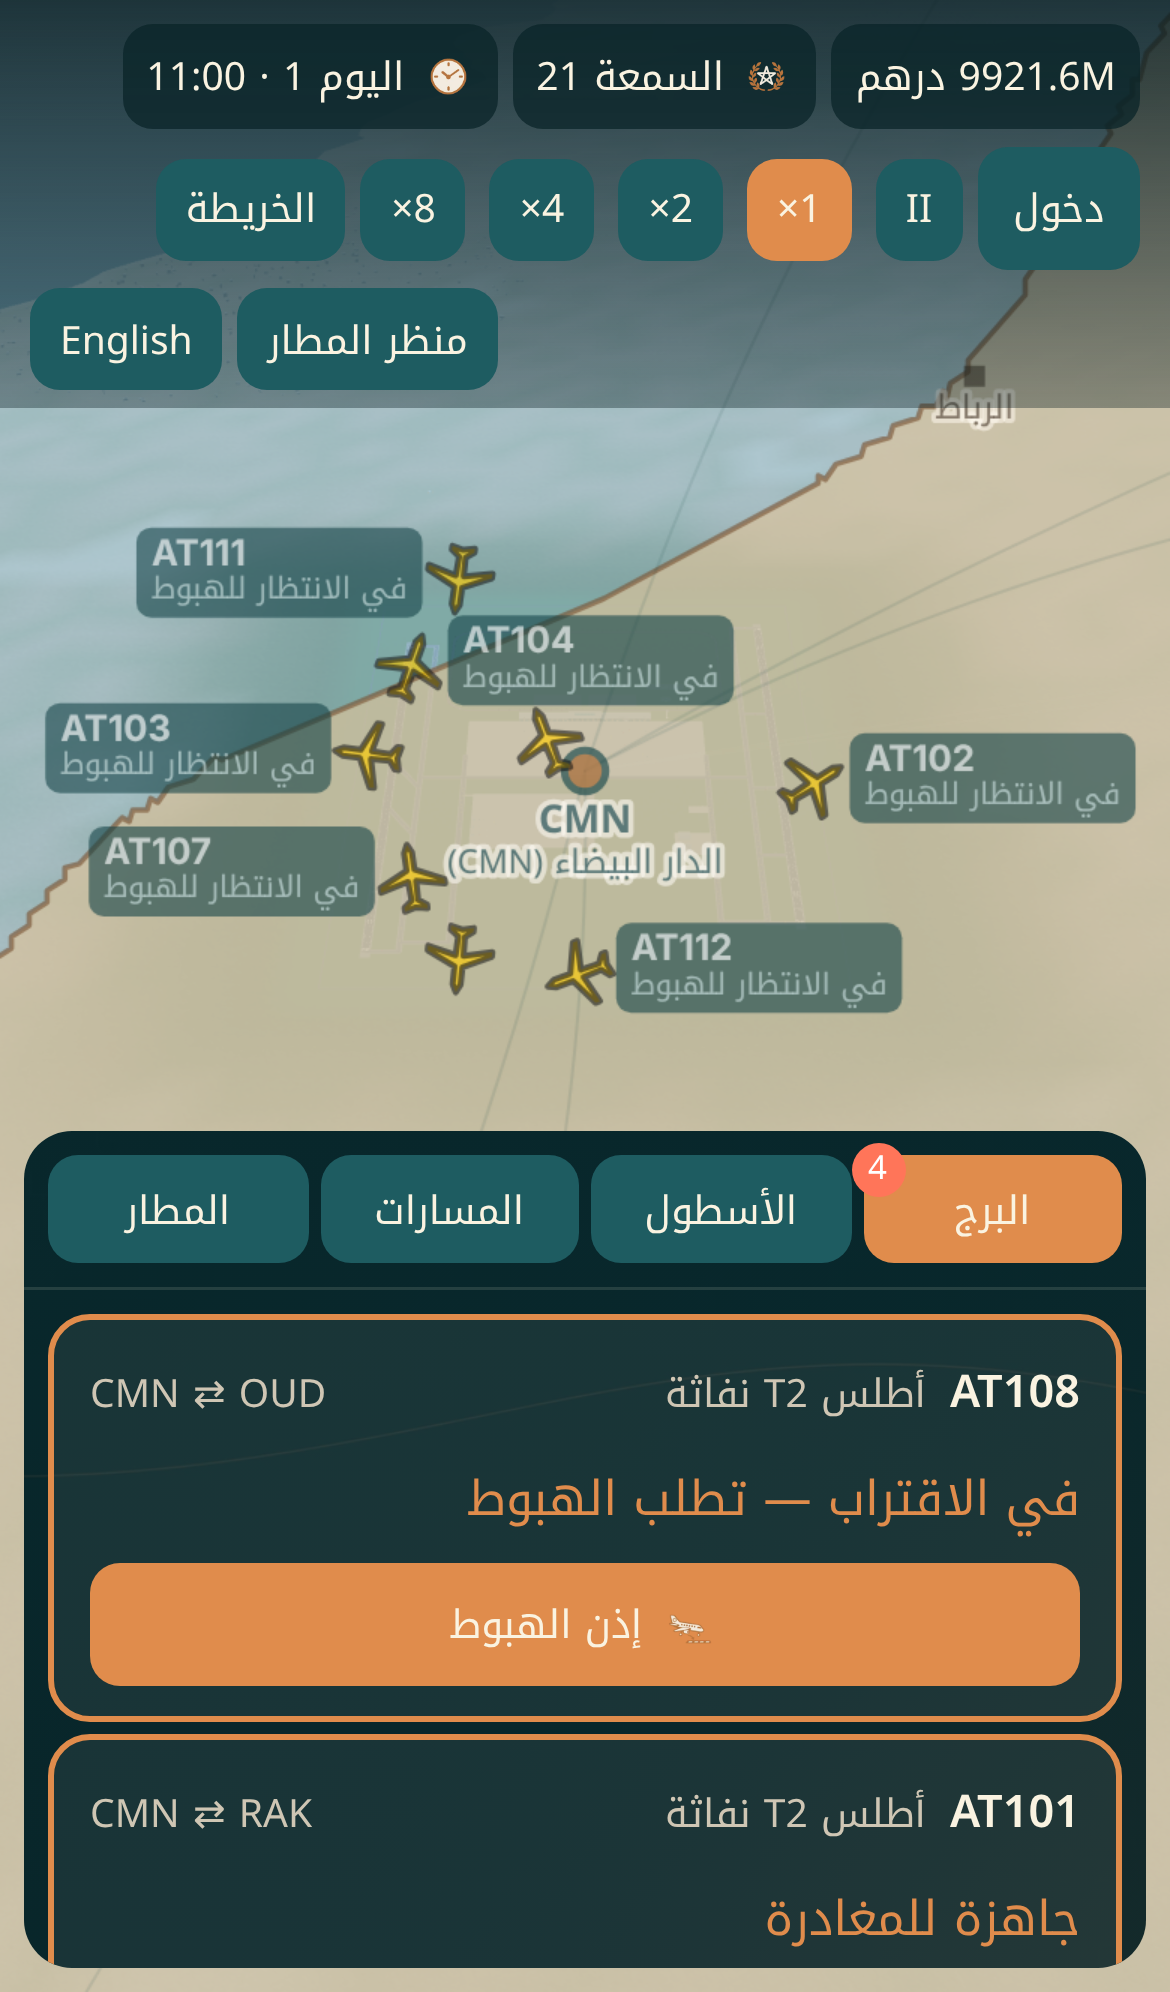
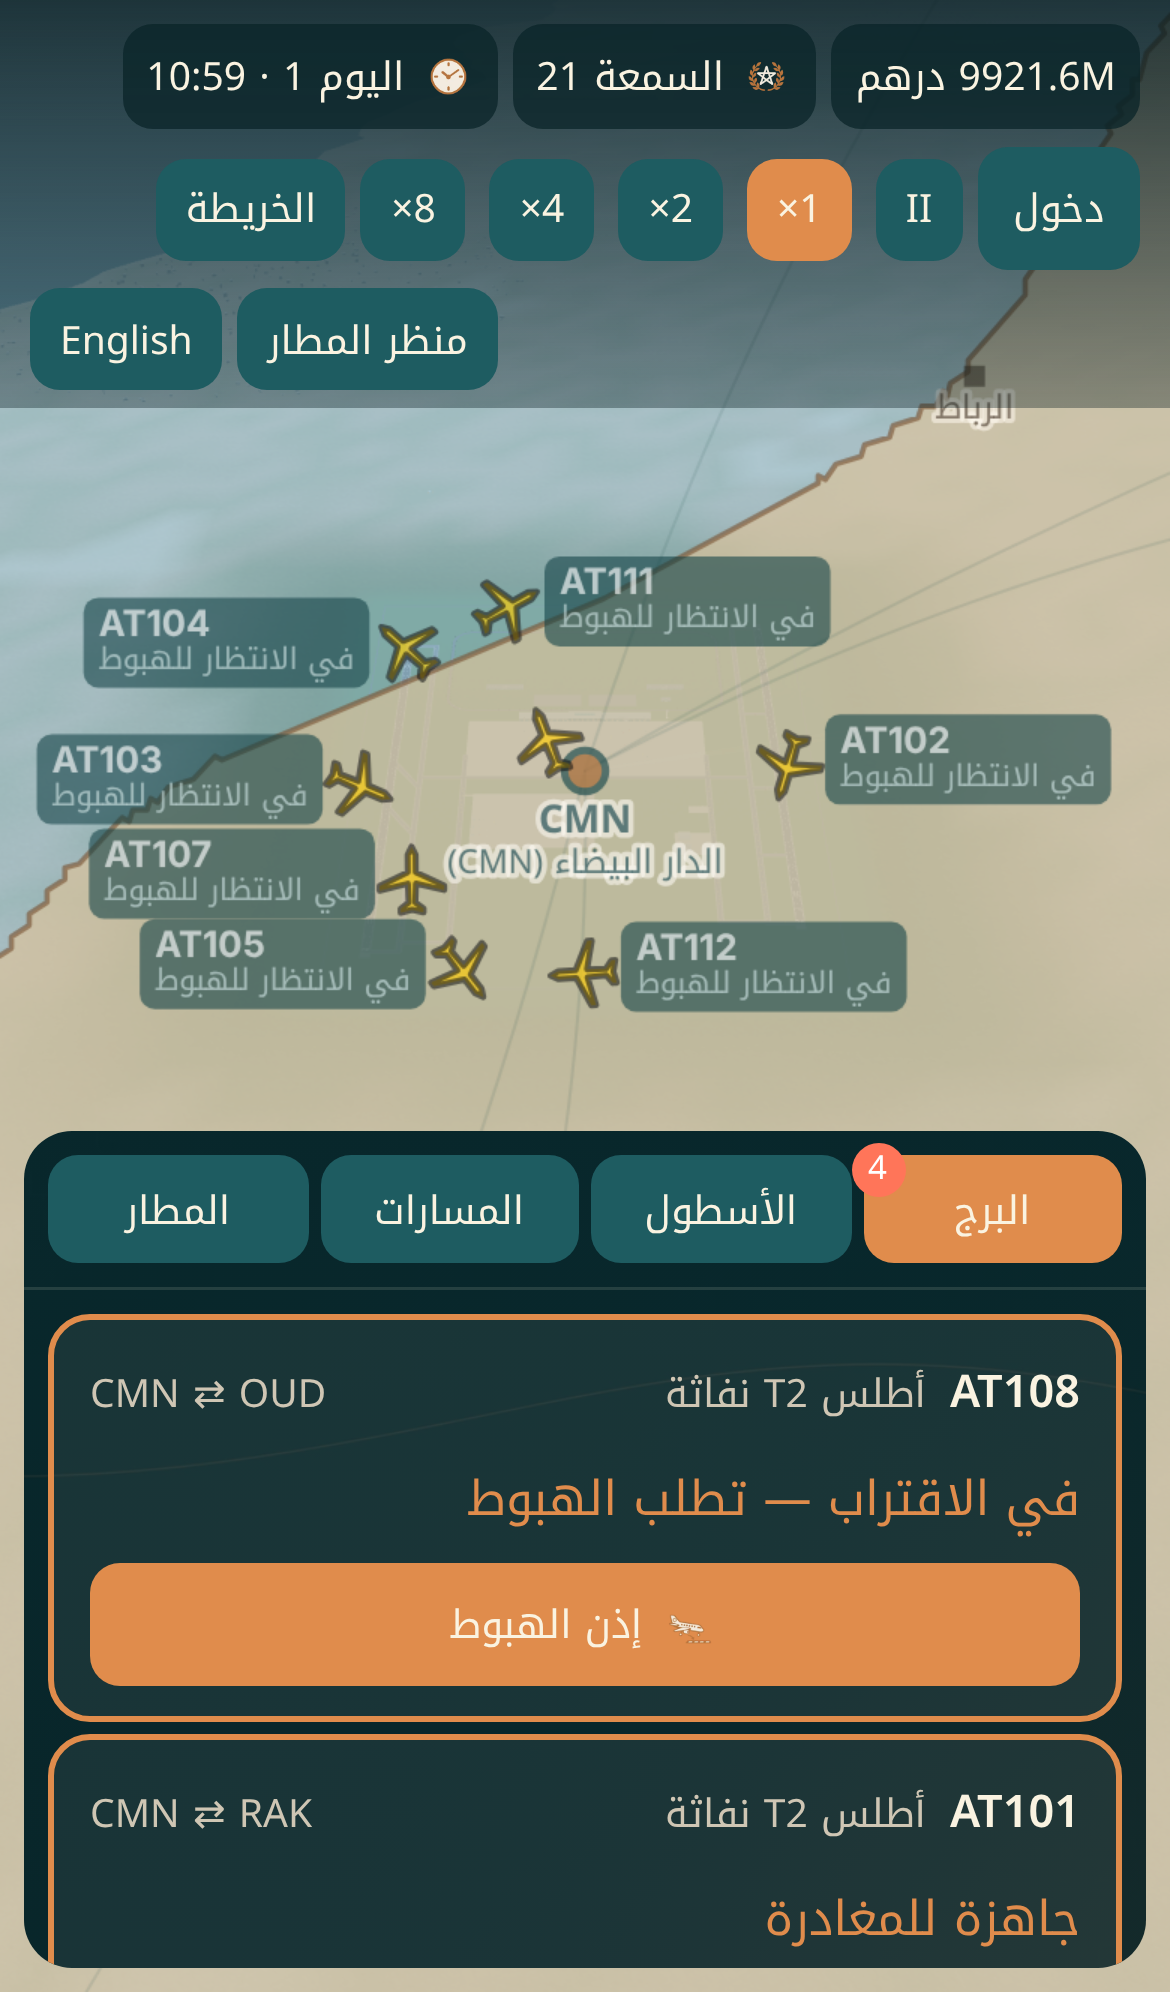
Flight map: 10 km minimum separation between airborne aircraft (fixed holding slots, side lanes for flights sharing a leg, gradual sideways steering of the lower-priority aircraft); min map separation 0.5 km -> 10.3 km
Claude-Session: https://claude.ai/code/session_01RoqHu2TiYBxYCF6HuHvMh8

diff --git a/web/js/flightmap.js b/web/js/flightmap.js
@@ -16,7 +16,9 @@ const KM_PER_M = 0.02;          // panning / zoom: 1 world metre = 0.02 map km (
 const LOCAL_KM_PER_M = 0.003;   // aircraft near the airport: offset from the airport, shrunk so approaches stay close
 const VIS = 1.3;                // same factor as the camera's pan speed, so dragging the map is 1:1
 const ARC = 0.12;
-const HOLD_SLOTS = 12, HOLD_R = 40;   // holding ring around the home airport (km)
+const HOLD_SLOTS = 12, HOLD_R = 40;
+const SEP_KM = 10;                   // minimum distance between two flying aircraft on the map (radar separation)
+const LANE_KM = 6;                   // lateral lane spacing for flights on the same route and direction   // holding ring around the home airport (km)
 const smooth = (a, b, x) => { const k = Math.min(Math.max((x - a) / (b - a), 0), 1); return k * k * (3 - 2 * k); };
 const PLANE = new Path2D('M0,-0.5 L0.06,-0.38 L0.06,-0.12 L0.48,0.08 L0.48,0.15 L0.06,0.05 L0.05,0.33 L0.17,0.42 L0.17,0.48 L0,0.44 L-0.17,0.48 L-0.17,0.42 L-0.05,0.33 L-0.06,0.05 L-0.48,0.15 L-0.48,0.08 L-0.06,-0.12 L-0.06,-0.38 Z');
 const OUT_STATES = ['ready', 'pushback', 'taxi_out', 'holding', 'lineup', 'takeoff'];
@@ -99,9 +101,9 @@ export class FlightMap {
       const fm = flightMinutes(a.route, a.type), leg = this.legs.get(a.id);
       const fresh = !leg || leg.route !== a.route || leg.out !== a.legOut;
       if (fresh || (pv && pv.state !== 'enroute')) {
-        if (a.legOut) this.legs.set(a.id, { route: a.route, out: true, from: pv && pv.p ? pv.p : this.km[DB.home], to: this.km[a.route], dur: Math.max(a.timer, 1), bulge: ARC });
-        else if (pv && pv.state === 'go_around' && pv.p) this.legs.set(a.id, { route: a.route, out: false, from: pv.p, to: this.approachEntry(), dur: Math.max(a.timer, 1), bulge: 0.35, circuit: true });
-        else this.legs.set(a.id, { route: a.route, out: false, from: this.km[a.route], to: this.approachEntry(), dur: fm, bulge: -ARC });
+        if (a.legOut) this.legs.set(a.id, { t0: S.day * 1440 + S.gameMin, route: a.route, out: true, from: pv && pv.p ? pv.p : this.km[DB.home], to: this.km[a.route], dur: Math.max(a.timer, 1), bulge: ARC });
+        else if (pv && pv.state === 'go_around' && pv.p) this.legs.set(a.id, { t0: S.day * 1440 + S.gameMin, route: a.route, out: false, from: pv.p, to: this.approachEntry(), dur: Math.max(a.timer, 1), bulge: 0.35, circuit: true });
+        else this.legs.set(a.id, { t0: S.day * 1440 + S.gameMin, route: a.route, out: false, from: this.km[a.route], to: this.approachEntry(), dur: fm, bulge: -ARC });
       }
       const L2 = this.legs.get(a.id);
       if (L2 && !a.legOut && pv && pv.state === 'enroute' && pv.legOut === false && pv.timer !== undefined && a.timer > pv.timer + 0.01 && a.timer <= 1.0001 && !L2.held) { L2.held = true; L2.heldAt = S.day * 1440 + S.gameMin; }   // landing slot refused (the sim resets the timer to 1 min): holding
@@ -109,6 +111,53 @@ export class FlightMap {
     }
     for (const id of [...this.legs.keys()]) if (!S.fleet.some(a => a.id === id)) { this.legs.delete(id); this.prev.delete(id); }
     this.assignHoldSlots();
+    this.layout();
+  }
+  /**
+   * Final displayed positions of every flying aircraft (this.shown): leg position -> lane offset for flights
+   * sharing a route and direction -> glide (no jumps) -> separation: when two aircraft are closer than
+   * SEP_KM, the lower-priority one steers sideways (perpendicular to its track) until the gap is restored,
+   * smoothly over game time, then drifts back to its own path.
+   */
+  layout() {
+    const now = S.day * 1440 + S.gameMin, dt = Math.min(Math.max(now - (this.lastLayout ?? now), 0), 1); this.lastLayout = now;
+    this.off ||= new Map();
+    const items = [];
+    for (const a of S.fleet) {
+      let p = this.farPos(a); if (!p) { this.off.delete(a.id); continue; }
+      // lanes: flights on the same leg (route + direction) get their own parallel lane
+      if (p.L && !p.holding) {
+        const same = S.fleet.filter(o => o.state === 'enroute' && o.route === a.route && o.legOut === a.legOut && this.legs.get(o.id) && !this.legs.get(o.id).held)
+          .sort((u, v) => (this.legs.get(u.id).t0 ?? 0) - (this.legs.get(v.id).t0 ?? 0));
+        const lane = same.indexOf(a);
+        if (lane > 0) {
+          const n = Math.hypot(p.d[0], p.d[1]) || 1, side = lane % 2 ? 1 : -1, amt = Math.ceil(lane / 2) * LANE_KM * Math.sin(Math.PI * Math.min(Math.max(p.k, 0), 1));   // zero at both ends
+          p = { ...p, p: [p.p[0] - p.d[1] / n * amt * side, p.p[1] + p.d[0] / n * amt * side] };
+        }
+      }
+      p = this.glide(a, p);
+      const L = p.L, prio = p.holding ? 0 : 1 + (L && L.t0 !== undefined ? (L.t0 % 100000) / 100000 : 0.5);
+      items.push({ a, p, prio });
+    }
+    items.sort((u, v) => u.prio - v.prio);
+    const want = new Map(items.map(it => [it.a.id, [0, 0]]));
+    for (let pass = 0; pass < 3; pass++) {
+      for (let i = 0; i < items.length; i++) for (let j = i + 1; j < items.length; j++) {
+        const A = items[i], B = items[j]; if (!A.p.air || !B.p.air) continue;
+        const oa = want.get(A.a.id), ob = want.get(B.a.id);
+        const ax = A.p.p[0] + oa[0], ay = A.p.p[1] + oa[1], bx = B.p.p[0] + ob[0], by = B.p.p[1] + ob[1];
+        const dx = bx - ax, dy = by - ay, d = Math.hypot(dx, dy); if (d >= SEP_KM * 1.15) continue;
+        const n = Math.hypot(B.p.d[0], B.p.d[1]) || 1; let px = -B.p.d[1] / n, py = B.p.d[0] / n;   // perpendicular to B's track
+        if (px * dx + py * dy < 0) { px = -px; py = -py; }                                            // steer away from A
+        const push = SEP_KM * 1.15 - d; ob[0] += px * push; ob[1] += py * push;
+      }
+    }
+    this.shown = new Map();
+    for (const it of items) {
+      const cur = this.off.get(it.a.id) || [0, 0], w = want.get(it.a.id), k = Math.min(1, dt / 0.25);
+      const o = [cur[0] + (w[0] - cur[0]) * k, cur[1] + (w[1] - cur[1]) * k]; this.off.set(it.a.id, o);
+      this.shown.set(it.a.id, { a: it.a, p: { ...it.p, p: [it.p.p[0] + o[0], it.p.p[1] + o[1]] } });
+    }
   }
   /**
    * Holding slots: 12 positions on a ring of HOLD_R km around the home airport (every 30°). Each waiting
@@ -258,7 +307,7 @@ export class FlightMap {
 
     // Aircraft (positions once, used for trails, icons and picking).
     const list = [];
-    if (withIcons) for (const a of S.fleet) { const p = this.farPos(a); if (p) list.push({ a, p: this.glide(a, p) }); }
+    if (withIcons && this.shown) for (const v of this.shown.values()) list.push(v);
     const legPath = (L, k0, k1) => {
       g.beginPath();
       for (let i = 0; i <= 30; i++) { const [x, y] = P(arc(L.from, L.to, k0 + (k1 - k0) * i / 30, L.bulge).p); i ? g.lineTo(x, y) : g.moveTo(x, y); }

diff --git a/docs/PROJECT_LOG.md b/docs/PROJECT_LOG.md
@@ -52,6 +52,7 @@
 | 25 | **مسار خاص لكل طائرة** | على خريطة البلد تظهر الطائرة عند مغادرة منطقة المطار وتختفي عند وصولها؛ لا أيقونات على الأرض ولا عند المحطات؛ الانتظار للهبوط على نقطة خاصة في مسار الطائرة نفسها؛ الحركة متصلة بلا قفز (مقاسة) |
 | 26 | **مسارات أهدأ** | خطوط الشبكة بين المطارات باهتة جدًا؛ لا مسار لأي طائرة إلا عند اختيارها، وعندها يظهر من أين أتت وإلى أين تذهب مع حلقة على المطارين |
 | 27 | **إصلاح تكدّس الطائرات المنتظرة** | 12 موقع انتظار حول الدار البيضاء (كل 30°، على 40 كم)، لكل طائرة موقعها؛ التسميات لا تغطي أي طائرة أو تسمية أخرى؛ في التكبير البعيد شارة واحدة «✈ n في الانتظار» |
+| 28 | **فصل الطائرات على الخريطة** | حد أدنى 10 كم بين أي طائرتين في الجو: مواقع انتظار ثابتة، ممرات جانبية للرحلات على نفس الخط، وانحراف تدريجي للطائرة الأقل أولوية عند الاقتراب. أقل مسافة: 0.5 كم → 10.3 كم (فحص `tests/map_separation_check.cjs`) |
 
 ---
 
